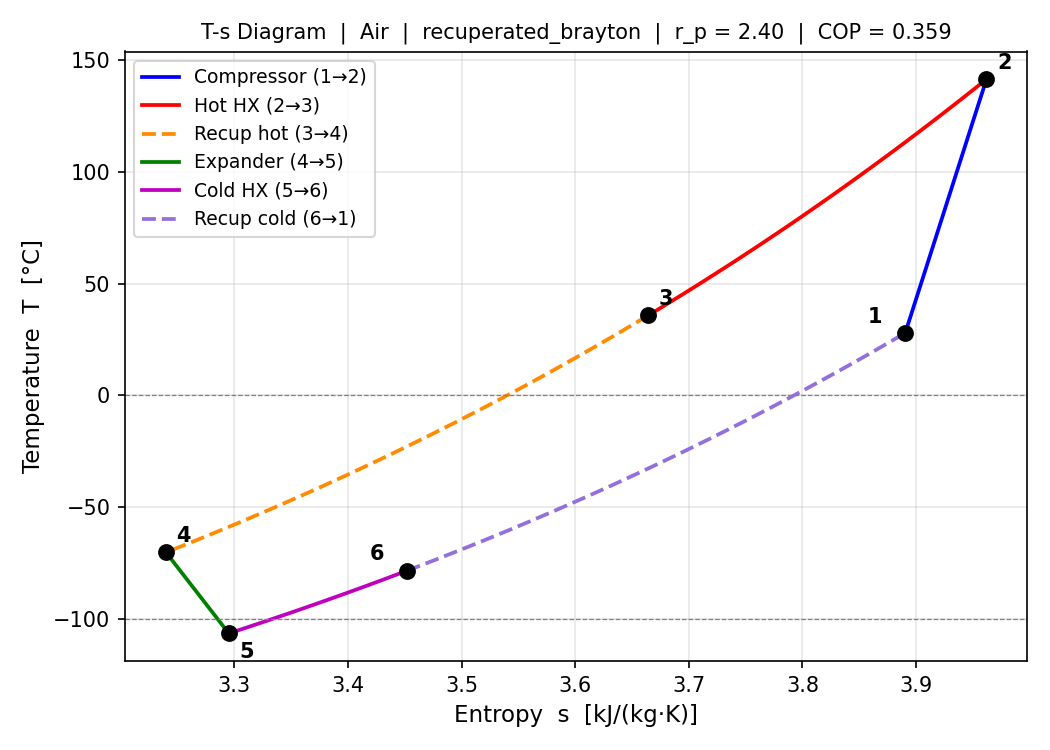
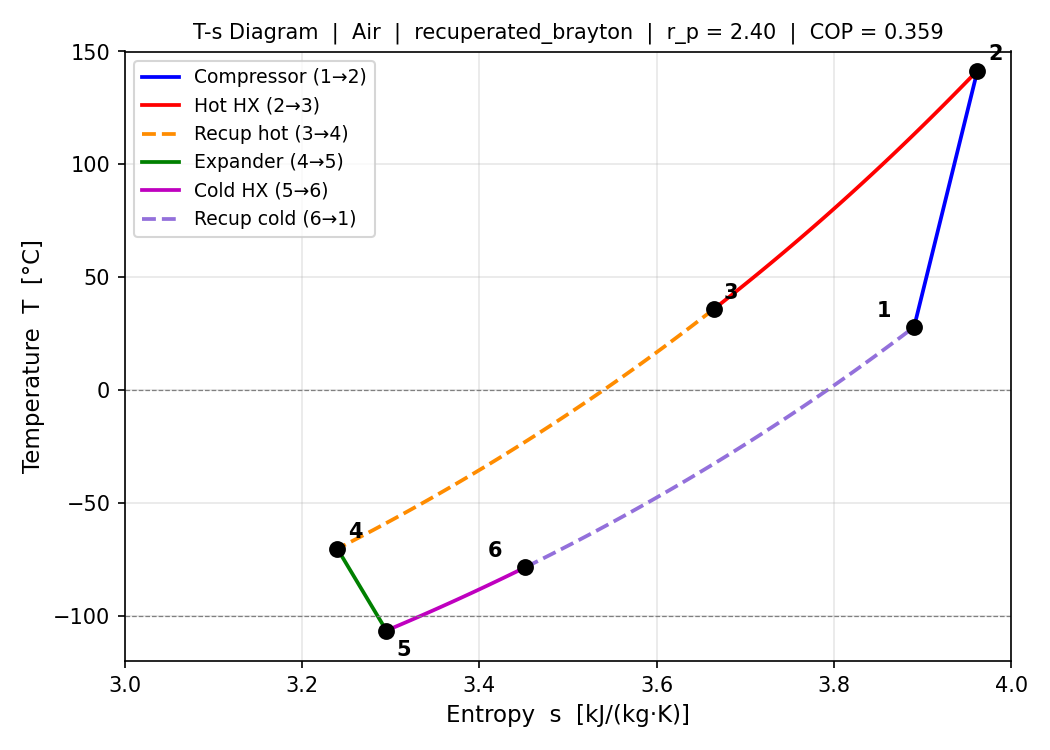
분석 시작.

diff --git a/visualize.py b/visualize.py
@@ -308,6 +308,8 @@ def plot_Ts(out: dict, cfg: dict, save_path: str) -> None:
 
     ax.axhline(0,    color="gray", lw=0.6, ls="--")
     ax.axhline(-100, color="gray", lw=0.6, ls="--")
+    ax.set_xlim(3.0, 4.0)
+    ax.set_ylim(-120, 150)
     ax.set_xlabel("Entropy  s  [kJ/(kg·K)]", fontsize=11)
     ax.set_ylabel("Temperature  T  [°C]",    fontsize=11)
     ax.set_title(
@@ -560,8 +562,7 @@ def main():
         print(f"\n  Generating plots → {result_dir}/")
         plot_Ts(out, cfg_run, os.path.join(result_dir, "cycle_Ts.png"))
         plot_Ph(out, cfg_run, os.path.join(result_dir, "cycle_Ph.png"))
-        print(f"  Running T_sec_out sweep ...")
-        sweep_T_sec_out(cfg, result_dir)
+        # sweep_T_sec_out(cfg, result_dir)  # 비활성화
         print("  Done.")
     else:
         # ── Simple / Recuperated 사이클 ───────────────────

diff --git a/main.py b/main.py
@@ -195,8 +195,10 @@ def save_results(cfg: dict, out: dict) -> None:
         w.writerow(["COP",            f"{out['COP']:.6f}",                 "-"])
         if out.get("Q_recuperator", 0.0) > 0:
             w.writerow(["Q_recuperator", f"{out['Q_recuperator']:.4f}",    "W"])
-        if "T_sec_out" in out and out["T_sec_out"] is not None:
-            w.writerow(["T_sec_out",  f"{out['T_sec_out']:.4f}",           "K"])
+        _load_sec = out.get("sec_temps", {}).get("load", {})
+        if _load_sec:
+            w.writerow(["T_load_sec_out", f"{_load_sec['T_sec_out']:.4f}", "K"])
+            w.writerow(["T_load_sec_in",  f"{_load_sec['T_sec_in']:.4f}",  "K"])
         w.writerow(["energy_error",   f"{out['energy_error']:.2e}",        "-"])
         w.writerow(["mass_flow",      f"{cfg['mass_flow']:.4f}",           "kg/s"])
 
